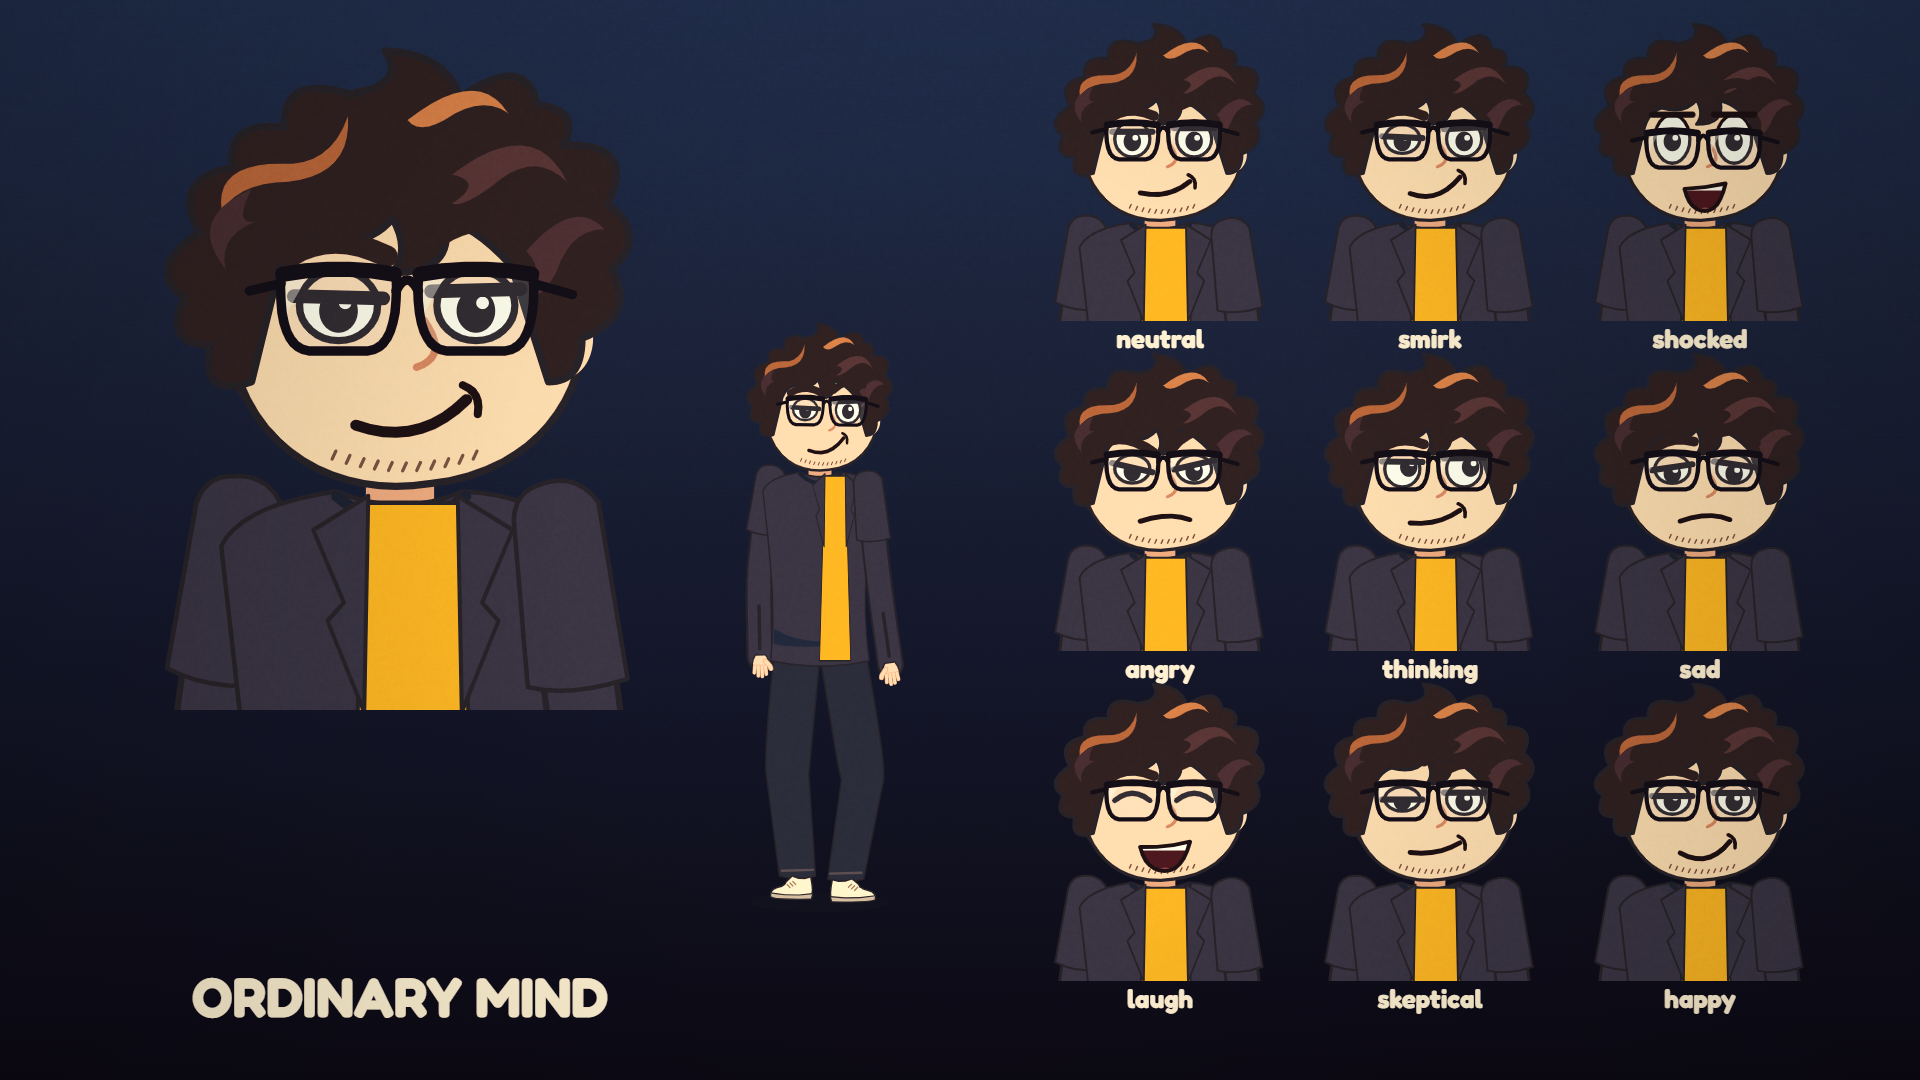
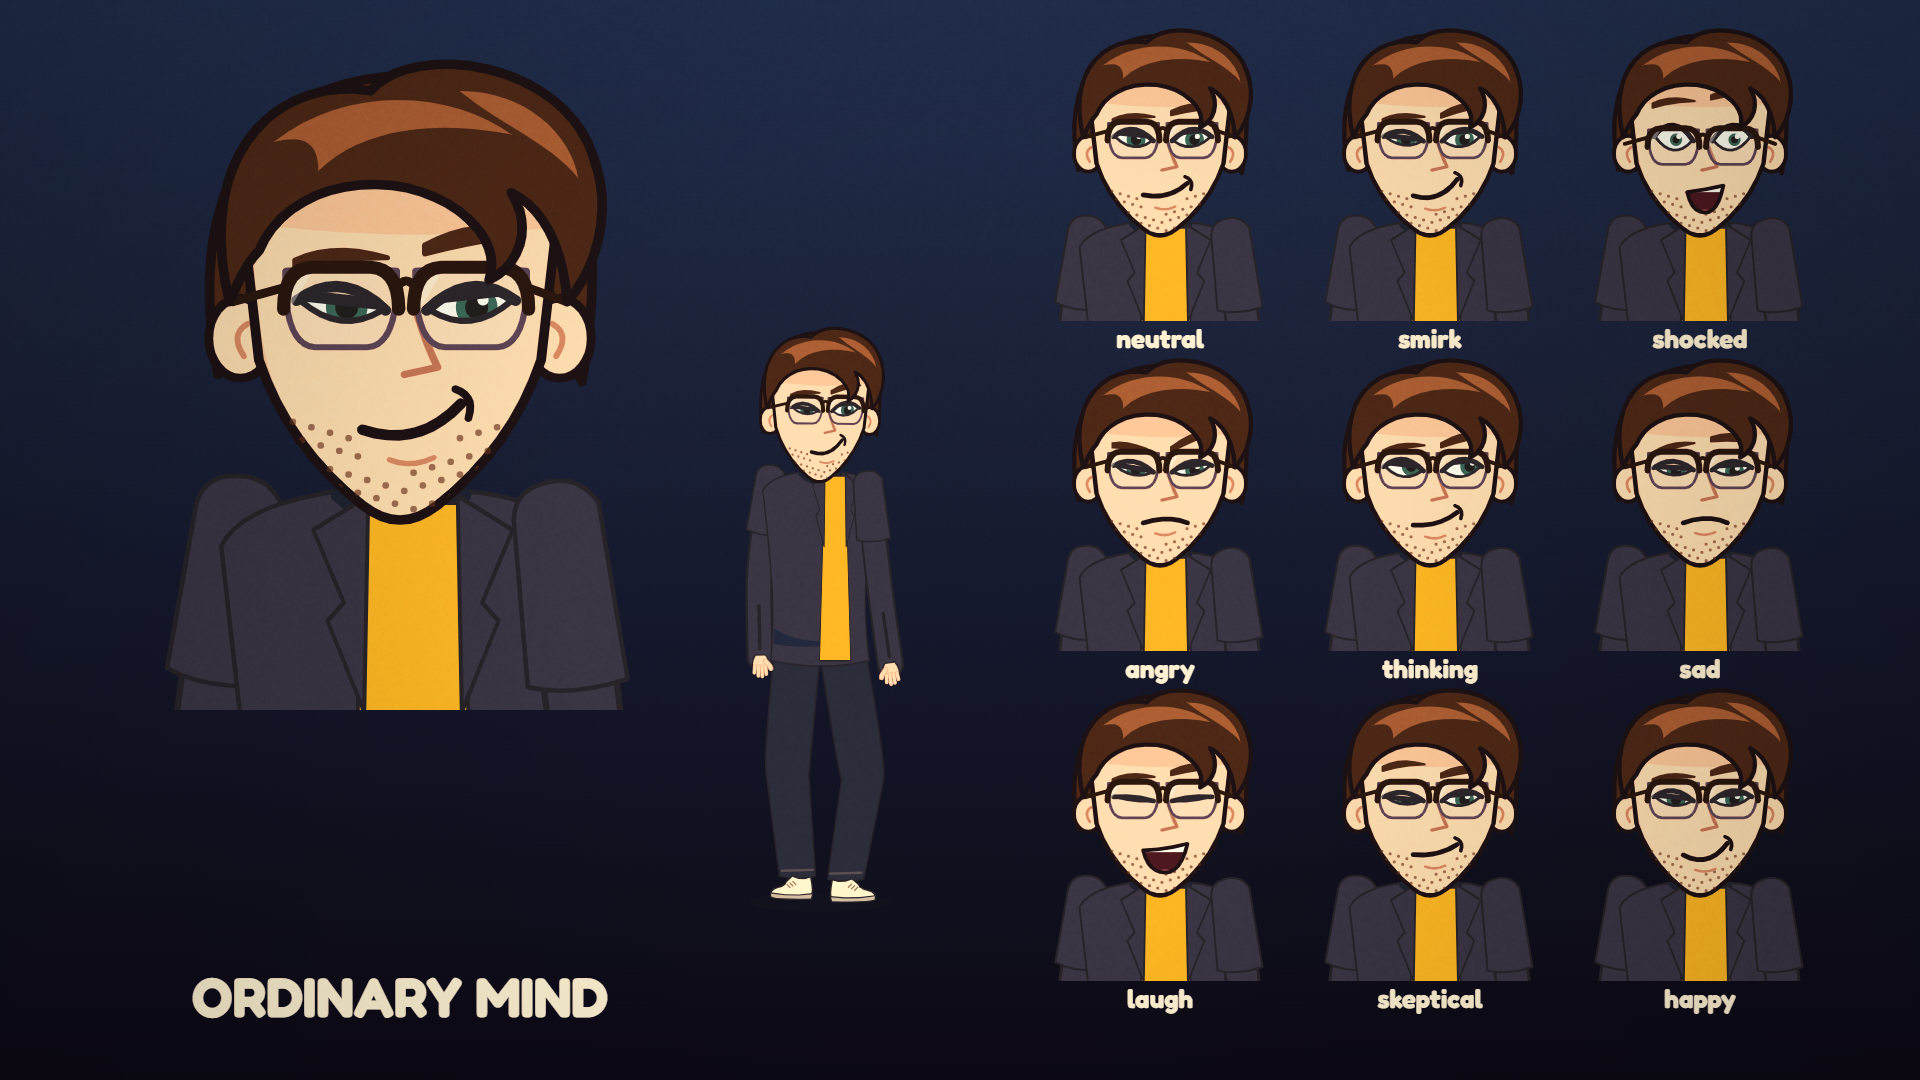
Ordinary Mind hero: The Strategist (user pick)

diff --git a/growkaz/engine/newheads.js b/growkaz/engine/newheads.js
@@ -29,7 +29,7 @@ function mouth(g, c, mx, y, o = {}) { const e = c.e, w = c.inProfile ? 8 : 6 + e
 function glasses(g, c, eyes, o = {}) { const [a, b] = eyes, col = o.col || '#17131c', y = (o.y ?? -3) + (c.e.eyeL > 1.25 ? 4 : 0), kind = o.kind || 'rect';
   for (const x of [a, b]) { if (x === null) continue; const d = kind === 'round' ? `M ${x - 14} ${y} a 14 13 0 1 0 28 0 a 14 13 0 1 0 -28 0 Z` : `M ${x - 15} ${y - 9.5} Q ${x} ${y - 11} ${x + 15} ${y - 9.5} Q ${x + 15.5} ${y + 11} ${x + 7} ${y + 11.5} L ${x - 7} ${y + 11.5} Q ${x - 15.5} ${y + 11} ${x - 15} ${y - 9.5} Z`;
     g.save(); g.globalAlpha *= 0.1; P(g, d, '#bfe6ff', 0); g.restore(); clipFill(g, d, () => { g.fillStyle = 'rgba(255,255,255,.38)'; g.beginPath(); g.moveTo(x - 9, y - 15); g.lineTo(x - 4.5, y - 15); g.lineTo(x - 15, y + 3); g.lineTo(x - 19, y + 3); g.fill(); });
-    if (kind === 'half') { P(g, d, null, 1.1, '#8a8296'); P(g, `M ${x - 15.5} ${y + 1} Q ${x - 15.5} ${y - 10} ${x - 8} ${y - 10.5} L ${x + 8} ${y - 10.5} Q ${x + 15.5} ${y - 10} ${x + 15.5} ${y + 1}`, null, 3.6, col); } else P(g, d, null, kind === 'round' ? 2.4 : 2.7, col); }
+    if (kind === 'half') { P(g, d, null, 1.7, '#5a4658'); P(g, `M ${x - 15.5} ${y + 1} Q ${x - 15.5} ${y - 10} ${x - 8} ${y - 10.5} L ${x + 8} ${y - 10.5} Q ${x + 15.5} ${y - 10} ${x + 15.5} ${y + 1}`, null, 3.6, col); } else P(g, d, null, kind === 'round' ? 2.4 : 2.7, col); }
   if (a !== null) { P(g, `M ${a + 14.5} ${y - 4} Q ${(a + b) / 2} ${y - 9.5} ${b - 14.5} ${y - 4}`, null, 2.4, col); P(g, `M ${a - 15} ${y - 5} L -45 ${y - 1}`, null, 2.4, col); }
   P(g, `M ${b + 15} ${y - 5} L ${c.inProfile ? -12 : 45} ${y - 1}`, null, 2.4, col); }
 function extras(g, c, eyes) { const e = c.e; if (e.blush) { g.save(); g.globalAlpha *= e.blush * 0.4; for (const x of eyes) if (x !== null) for (let i = 0; i < 3; i++) P(g, `M ${x - 8 + i * 6} 17 l -3 6`, null, 1.8, '#d0503c'); g.restore(); }

diff --git a/growkaz/engine/toon2d.js b/growkaz/engine/toon2d.js
@@ -24,7 +24,7 @@ export const MOM = { c19: ['mom', 'cardigan'], skin: '#e8b892', hair: 'long', ha
 export const DAD = { c19: ['dad', 'cardigan'], skin: '#e4b48c', hair: 'short', hairColor: '#8d8a96', top: '#6b7f5a', topDark: '#46573a', legs: '#3a3a44', shoes: '#2a2a33', eyes: 'dark', glasses: true, stache: 'curl' };
 export const KID = { ...HERO, c19: ['kid', 'marine'], stache: null, beard: null, top: '#e0562f', topDark: '#b0402a', collar: '#b0402a', sleeves: null, legs: '#4a78b8', belt: null };   // young Abid (flashbacks)
 export const YOUNG_DAD = { ...DAD, c19: ['youngdad', 'uniform'], hairColor: '#4a3020' };                                                                                   // Dad, 20 years younger
-export const OM_HERO = { ...HERO, c19: ['om_specs', 'rebel'] };   // Ordinary Mind channel: formal glasses, cool smirk, dark jacket (user 2026-11-26)
+export const OM_HERO = { ...HERO, c19: ['om_strategist', 'rebel'] };   // Ordinary Mind channel: THE STRATEGIST (user pick 2026-11-26)
 export const MIA = { c19: ['mia', 'marine'] };
 export const SHOPPER = (i) => ({ c19: [['mara', 'cardigan'], ['omar', 'workwear'], ['june', 'workwear'], ['ines', 'marine']][i % 4], ...[{ skin: '#f5d6b8', hair: 'bun', hairColor: '#5a3825', top: '#c96f8a', topDark: '#8d4a60', legs: '#4a3f6e', eyes: 'dark', lashes: true },
   { skin: '#a8714a', hair: 'short', hairColor: '#1d1410', top: '#e0a24a', topDark: '#b07a2a', legs: '#2e3344', eyes: 'dark' },

diff --git a/channels/ORDINARY_MIND.md b/channels/ORDINARY_MIND.md
@@ -7,7 +7,7 @@ Finance / tech news / business explainers: a real question, checked facts, one e
 ## Cast
 - One narrator voice, no side-character voices.
 - On screen: "you" plus supporting people and crowds. Never a lone hero on a gradient.
-- Hero (user picked 2026-11-26): `OM_HERO` from `/engine/toon2d.js` = slim FORMAL GLASSES, cool one-brow smirk, dark jacket over yellow tee (`engine/coolfaces.js` specs). Slightly naughty, never boring. Never use `HERO` (Mooch) on this channel. Picture: `docs/OM_HERO.png`. Other options on request: om_shades, om_smirk, om_wink.
+- Hero (user picked 2026-11-26): `OM_HERO` from `/engine/toon2d.js` = **THE STRATEGIST** (`engine/newheads.js`): narrow V jaw, brown side-swept wave, thin half-rim glasses, light stubble, green eyes, sly smirk, dark jacket over yellow tee. A completely different face from Thinkle Show; never use `HERO` (Mooch) here. Picture: `docs/OM_HERO.png`. Other options only on request: om_closer, om_boss, om_specs.
 
 ## Voice (user rule 2026-11-22)
 Narrator "Abid's Fav" `4de5245b355c4974a0c71baf01775d48` at 1.1x, CTA 1.0x, NO tags, one speaker only, 1st (older) generation.
